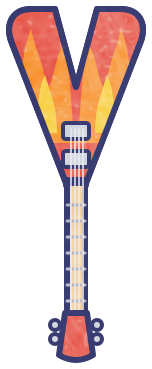
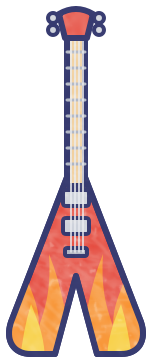
Flambe plays his guitar: a play pose, the guitar redrawn the right way up
The guitar is held at its body, neck up, flames rising up the wings. A pose
struck holding an item now places the arms itself instead of the item hand
being pushed out in front. The strum turns elbow and wrist against each other
so the guitar holds still.

diff --git a/tools/art/items.py b/tools/art/items.py
@@ -848,30 +848,32 @@ def tracing_paper():
 
 def guitar():
     """Flambe's electric guitar for the show (a story prop, never dropped in a match): a red
-    flying V with flames up its wings, held up by the neck, body to the sky (Eric, 2026-10-22)."""
-    body = ('M 75,226 L 10,58 C 4,40 12,26 30,26 L 54,26 L 75,104 L 96,26 L 120,26 '
-            'C 138,26 146,40 140,58 Z')
+    flying V with flames up its wings, the right way up for playing - headstock at the top, the
+    wings down - and held at the body, where he strums, so the neck runs on up his forearm's line
+    (Eric, 2026-10-22). Fire rises, so the flames go up the wings from their tips."""
+    body = ('M 75,150 L 10,318 C 4,336 12,350 30,350 L 54,350 L 75,272 L 96,350 L 120,350 '
+            'C 138,350 146,336 140,318 Z')
     s = P(body, 'red')
     s += clip('vflame', body,
-              F('M 16,140 C 22,100 18,76 30,46 C 36,74 46,84 44,112 C 54,96 54,74 62,62 '
-                'C 72,96 68,124 75,160 L 16,160 Z', 'orange')
-              + F('M 134,140 C 128,100 132,76 120,46 C 114,74 104,84 106,112 C 96,96 96,74 88,62 '
-                  'C 78,96 82,124 75,160 L 134,160 Z', 'orange')
-              + F('M 34,150 C 38,124 36,108 44,92 C 50,112 56,124 56,150 Z', 'yellow')
-              + F('M 116,150 C 112,124 114,108 106,92 C 100,112 94,124 94,150 Z', 'yellow'))
+              F('M 0,360 C 6,320 16,300 22,262 C 30,290 38,298 38,322 C 46,300 50,282 48,250 '
+                'C 62,284 66,320 75,360 Z', 'orange')
+              + F('M 150,360 C 144,320 134,300 128,262 C 120,290 112,298 112,322 C 104,300 100,282 102,250 '
+                  'C 88,284 84,320 75,360 Z', 'orange')
+              + F('M 18,360 C 22,334 24,320 30,300 C 38,320 44,334 44,360 Z', 'yellow')
+              + F('M 132,360 C 128,334 126,320 120,300 C 112,320 106,334 106,360 Z', 'yellow'))
     s += L(body, 'wo')
-    s += P(rect(62, 140, 88, 156, 3), 'silver', 'wi')
-    s += P(rect(62, 168, 88, 184, 3), 'silver', 'wi')
-    s += P(rect(64, 196, 86, 204, 2), 'silver_dark', 'wi')
-    s += P(rect(66, 200, 84, 334, 3), 'wood')
-    for y in range(222, 330, 16):
+    s += P(rect(66, 30, 84, 182, 3), 'wood')
+    for y in range(48, 176, 16):
         s += L('M 66,%d L 84,%d' % (y, y), 3, 'silver_dark')
+    s += P(rect(62, 186, 88, 202, 3), 'silver', 'wi')
+    s += P(rect(62, 214, 88, 230, 3), 'silver', 'wi')
+    s += P(rect(64, 244, 86, 252, 2), 'silver_dark', 'wi')
     for x in (70, 74, 78, 82):
-        s += L('M %d,146 L %d,338' % (x, x), 1.5, 'silver_light')
-    s += P('M 64,330 L 86,330 L 92,372 Q 75,382 58,372 Z', 'red')
-    for y in (342, 356):
-        s += P(ellipse(54, y, 5), 'silver', 'wi') + P(ellipse(96, y, 5), 'silver', 'wi')
-    return s, (150, 384), (75, 300), (75, 70)
+        s += L('M %d,26 L %d,248' % (x, x), 1.5, 'silver_light')
+    s += P('M 58,10 Q 75,0 92,10 L 86,34 L 64,34 Z', 'red')
+    for y in (14, 26):
+        s += P(ellipse(52, y, 5), 'silver', 'wi') + P(ellipse(98, y, 5), 'silver', 'wi')
+    return s, (150, 360), (75, 222), (75, 14)
 
 
 ITEMS = [

diff --git a/scripts/FighterAnimations.cs b/scripts/FighterAnimations.cs
@@ -1038,14 +1038,26 @@ public static class FighterAnimations
 		"bow" => Bow,
 		"sit" => Sit,
 		"eat" => Sit,
+		"play" => Play,
 		_ => null,
 	};
 
 	public static readonly string[] StoryPoses =
 	{
 		"cheer", "slump", "point", "shrug", "laugh", "stomp", "tremble", "crossarms",
-		"wave", "fist", "flex", "hips", "think", "facepalm", "present", "beckon", "nod", "bow", "sit", "eat",
+		"wave", "fist", "flex", "hips", "think", "facepalm", "present", "beckon", "nod", "bow", "sit", "eat", "play",
 	};
+
+	/// <summary>
+	/// Playing the guitar he holds (Flambe's, "hold guitar"): the near hand down at his hip on its
+	/// body with the forearm angled up and forward, so the neck runs on up that line, and the far
+	/// hand reaching forward up the neck. Feet apart, leaning back into it. Strummed in
+	/// Fighter.StrikePose (Eric, 2026-10-22).
+	/// </summary>
+	static readonly Pose Play = new Pose(new Vector2(0, 4),
+		(Torso, 8), (Head, -10),
+		(AFU, 6), (AFL, -94), (ABU, -50), (ABL, -30),
+		(LFU, -16), (LFL, 10), (LBU, 16), (LBL, 8));
 
 	/// <summary>
 	/// Sat on a stool at a table: thighs out level, shins straight down, forearms resting on the

diff --git a/scripts/FighterStory.cs b/scripts/FighterStory.cs
@@ -199,6 +199,14 @@ public partial class Fighter
 			case "nod":
 				storyPose.Set(RigBone.Head, storyPose[RigBone.Head] - 14.0f * Mathf.Abs(Mathf.Sin(fxFrames * 0.16f)));
 				break;
+			case "play":
+				// Strumming, fast - the elbow and the wrist turning against each other, so the hand
+				// moves but the guitar on it holds still - and his head banging along on the beat.
+				float strum = 6.0f * Mathf.Sin(fxFrames * 0.9f);
+				storyPose.Set(upper, storyPose[upper] + strum);
+				storyPose.Set(lower, storyPose[lower] - strum);
+				storyPose.Set(RigBone.Head, storyPose[RigBone.Head] - 12.0f * pump);
+				break;
 			case "flex":
 				// Squeezing: each fist curls further in toward his head, whichever way that bends.
 				storyPose.Set(RigBone.ArmFrontLower, storyPose[RigBone.ArmFrontLower] * (1.0f + 0.14f * pump));

diff --git a/scripts/FighterItems.cs b/scripts/FighterItems.cs
@@ -1078,6 +1078,8 @@ void fragment() {
 	{
 		if (heldItem == null || rig == null || !rig.Loaded) return;
 		if (State == FighterState.Attacking || State == FighterState.LedgeHang || State == FighterState.Dodging) return;
+		// A pose struck in a scene puts the arms where it wants them - Flambe playing his guitar.
+		if (!string.IsNullOrEmpty(StoryPose)) return;
 		HoldItemOut(rig, Facing, shieldRaised);
 	}
 

diff --git a/.ai/story-mode.md b/.ai/story-mode.md
@@ -142,8 +142,10 @@ headliner. This kitchen is my stage."
   cancelling my SHOW?!**" Lugnut tightens his hard hat. "...Break's over, I guess." They fight on
   the stage, the girder overhead. After, Lugnut looks at the dents. "...Okay. It passed." -
   "Inspection?" - "Stress test." - "So I can play?" - "With pyro, even." He pulls out his guitar
-  (a flame-painted flying V - `hold guitar`, a story prop, never an item in a match), a power
-  chord, and pillars of fire go off behind the stage (`pyro`): "The show... goes on." (Eric,
+  (a flame-painted flying V - `hold guitar`, a story prop, never an item in a match) and plays
+  it - `pose play`: the guitar at his hip, the neck angled up and forward, his other hand on it,
+  strumming (a pose struck holding an item places the arms; `Fighter.HoldItemPose` stands
+  aside) - a power chord, and pillars of fire go off behind the stage (`pyro`): "The show... goes on." (Eric,
   2026-10-22: it was a fist bump and Fire Rain.)
 - **The two-on-one.** EdgeLord asks Triguy to team up: "Hey. Triangle. You're fast. I'm sharp.
   Team up?" Triguy: "that's, really kewl." Then he goes for EdgeLord's sword - "Hands off the
